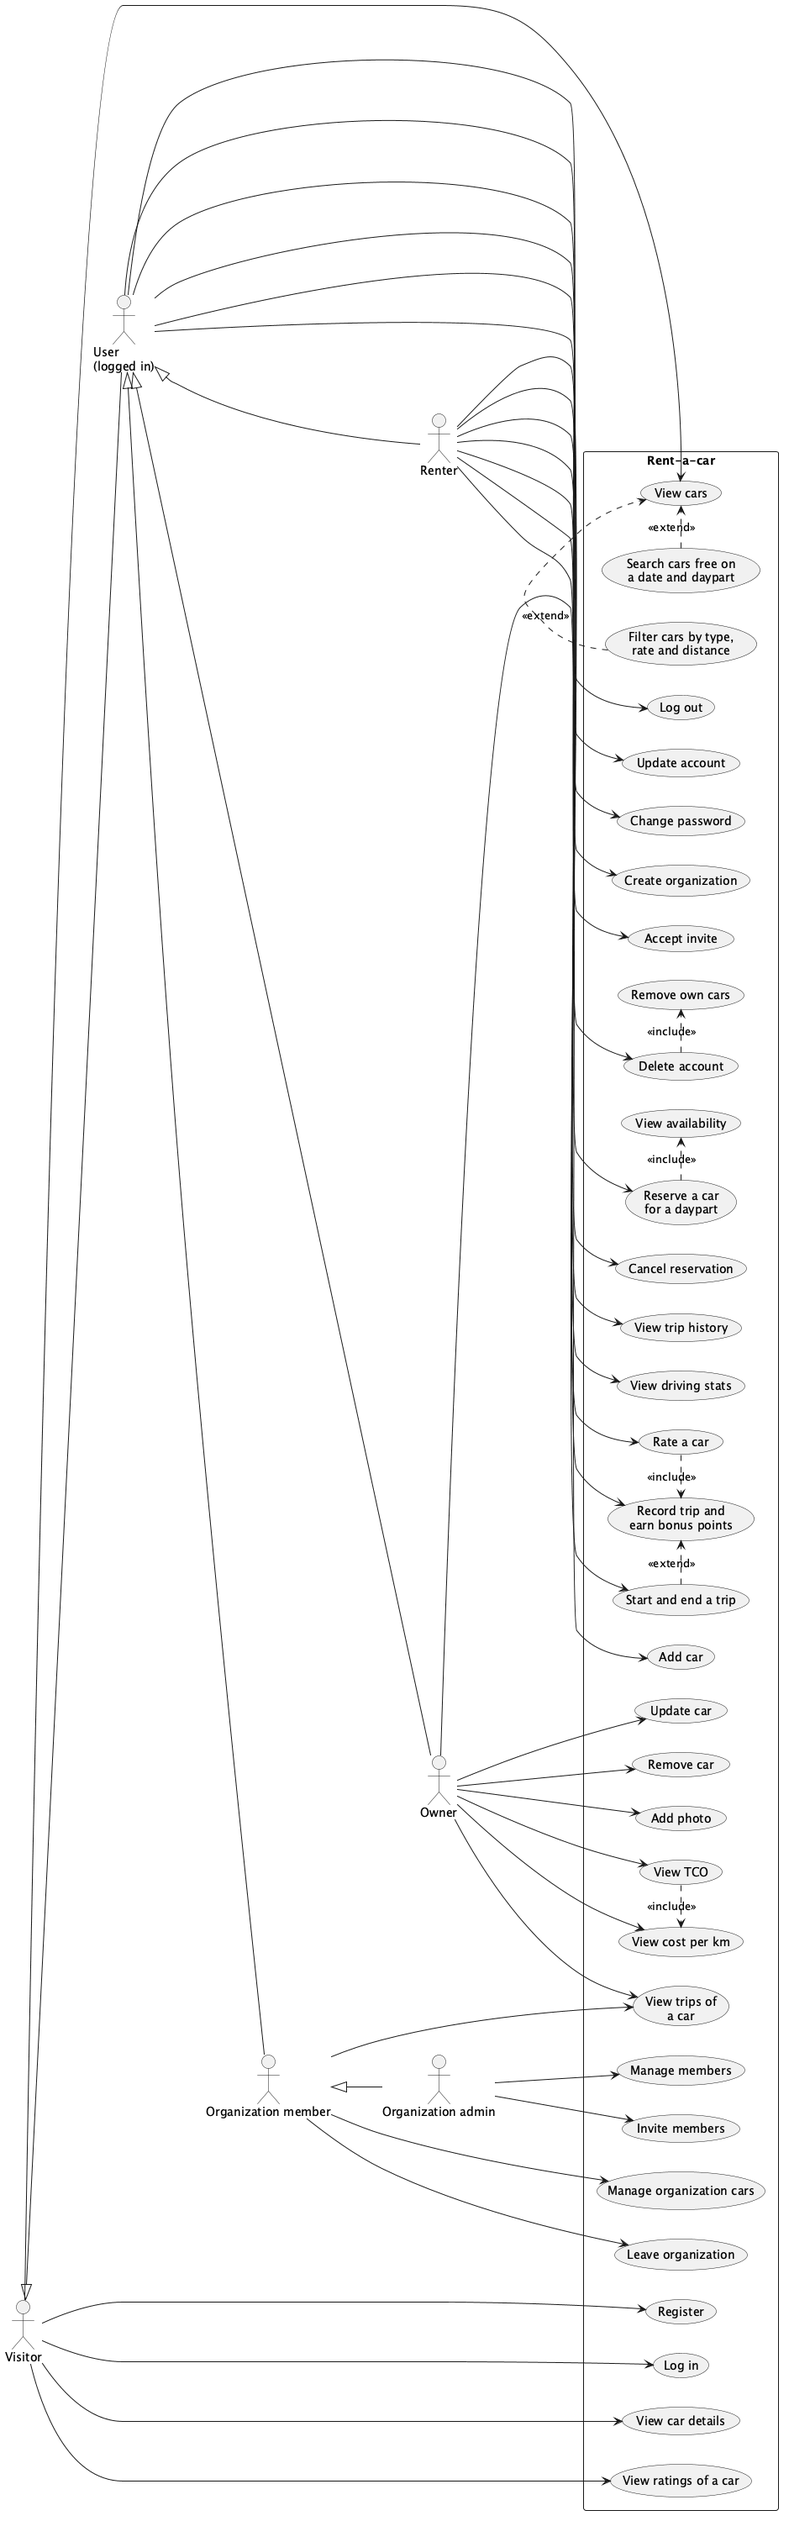
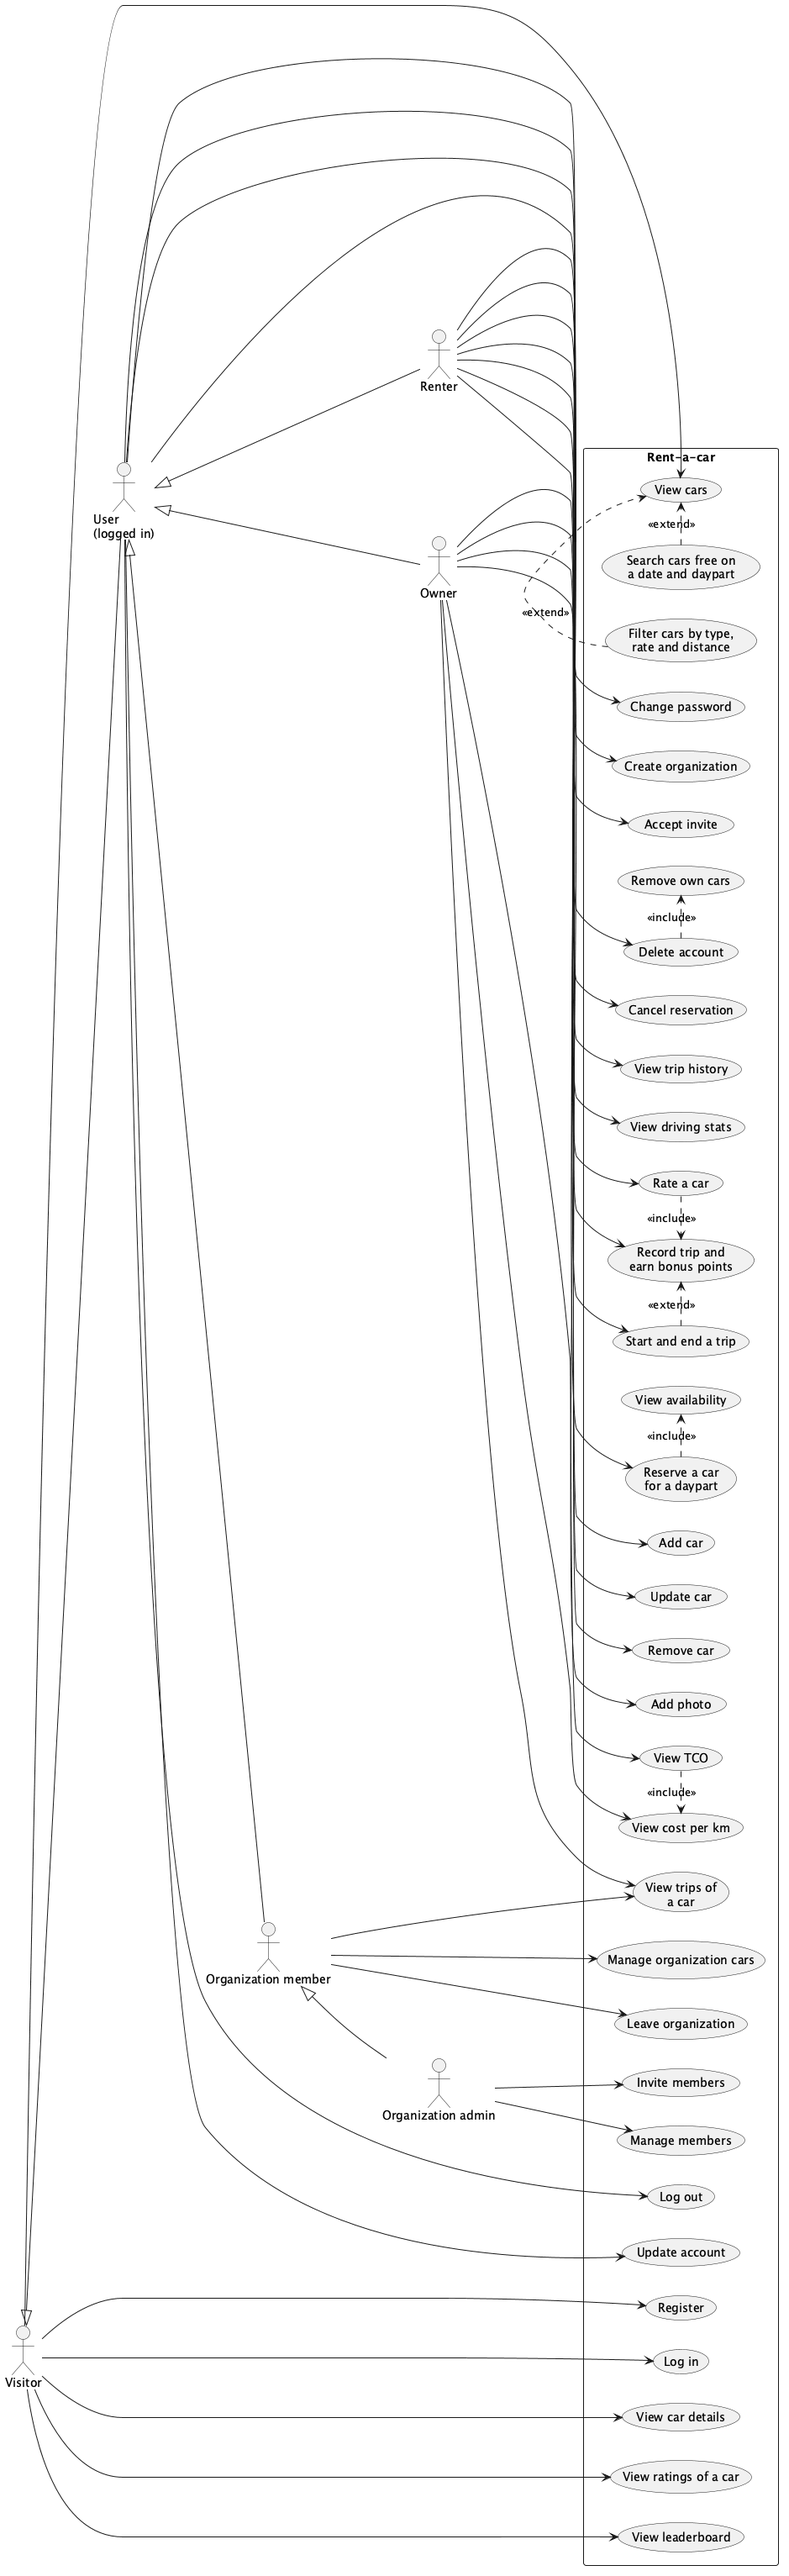
feat: show the drivers with the most bonus points (#114)
* Add GET /leaderboard with the drivers that have the most bonus points

* Test the leaderboard order, limit and privacy

* Document the leaderboard in the README, OpenAPI and the diagrams

* Cover the default limit and name the leaderboard tests after what they check

diff --git a/test/trips/LeaderboardRoutesTest.kt b/test/trips/LeaderboardRoutesTest.kt
@@ -1,0 +1,136 @@
+package com.example.trips
+
+import com.example.accounts.UserRepository
+import com.example.cars.PostgresCarRepository
+import com.example.cars.AddCarRequest
+import com.example.cars.BodyStyle
+import com.example.cars.CarType
+import com.example.cars.Location
+import com.example.cars.Transmission
+import com.example.database.TestDatabase
+import com.example.database.useTestDatabase
+import com.example.organizations.OrganizationRepository
+import com.example.reservations.Daypart
+import com.example.reservations.ReservationRepository
+import io.ktor.client.HttpClient
+import io.ktor.client.request.get
+import io.ktor.client.statement.HttpResponse
+import io.ktor.client.statement.bodyAsText
+import io.ktor.http.HttpStatusCode
+import io.ktor.server.testing.ApplicationTestBuilder
+import io.ktor.server.testing.testApplication
+import kotlinx.serialization.json.*
+import org.jetbrains.amper.ktor.module
+import java.time.LocalDate
+import kotlin.test.*
+
+class LeaderboardRoutesTest {
+    private val users = UserRepository(TestDatabase.dataSource)
+    private val trips = TripRepository(TestDatabase.dataSource)
+    private val reservations = ReservationRepository(TestDatabase.dataSource)
+    private var day = 0L
+
+    @BeforeTest
+    fun reset() {
+        OrganizationRepository(TestDatabase.dataSource).clear()
+        users.clear() // and with the users their cars, reservations and trips
+        day = 0
+    }
+
+    private fun withApp(block: suspend ApplicationTestBuilder.() -> Unit) = testApplication {
+        useTestDatabase()
+        application { module() }
+        block()
+    }
+
+    private val car by lazy {
+        val owner = users.register("Owner", "owner@example.com", "supersecret")!!
+        PostgresCarRepository(TestDatabase.dataSource).addCar(
+            AddCarRequest(CarType.BEV, "Test Motors", "LB-1", 1, 45.5, Location(52.3, 4.9), 4, BodyStyle.Sedan, 2024, 150, Transmission.Automatic, "Blue", capacity = 75.0, consumption = 16.2).toCar(owner.id),
+        ).id
+    }
+
+    // Registers a user and gives them the points through a recorded trip, like the API does.
+    private fun driver(name: String, points: Int) {
+        val user = users.register(name, "${name.lowercase()}$day@example.com", "supersecret")!!
+        if (points == 0) return
+        val reservation = reservations.reserve(car, user.id, LocalDate.of(2026, 1, 1).plusDays(day++), Daypart.MORNING)!!
+        trips.record(reservation.id, user.id, 10, 100, points)
+    }
+
+    private suspend fun HttpClient.leaderboard(query: String = ""): HttpResponse = get("/leaderboard$query")
+
+    private suspend fun HttpResponse.entries() = Json.parseToJsonElement(bodyAsText()).jsonArray.map { it.jsonObject }
+
+    @Test
+    fun TheMostPointsComeFirstAndEqualPointsAreOrderedByName() = withApp {
+        driver("Carl", 50)
+        driver("Bob", 80)
+        driver("Ann", 50)
+
+        val response = client.leaderboard()
+
+        assertEquals(HttpStatusCode.OK, response.status) // public: no token
+        assertEquals(
+            listOf("Bob" to 80, "Ann" to 50, "Carl" to 50),
+            response.entries().map { it["name"]!!.jsonPrimitive.content to it["bonusPoints"]!!.jsonPrimitive.int },
+        )
+    }
+
+    @Test
+    fun TheLimitCutsTheListAndTheTopStaysFirst() = withApp {
+        driver("Ann", 10)
+        driver("Bob", 30)
+        driver("Carl", 20)
+
+        val names = client.leaderboard("?limit=2").entries().map { it["name"]!!.jsonPrimitive.content }
+
+        assertEquals(listOf("Bob", "Carl"), names)
+    }
+
+    @Test
+    fun OnlyTheNameAndThePointsAreShown() = withApp {
+        driver("Ann", 10)
+
+        val body = client.leaderboard().bodyAsText()
+
+        assertEquals(setOf("name", "bonusPoints"), Json.parseToJsonElement(body).jsonArray.single().jsonObject.keys)
+        assertFalse(body.contains("@"))
+    }
+
+    @Test
+    fun UsersWithoutPointsAreNotListed() = withApp {
+        driver("Ann", 10)
+        driver("Zero", 0)
+
+        val names = client.leaderboard().entries().map { it["name"]!!.jsonPrimitive.content }
+
+        assertEquals(listOf("Ann"), names)
+    }
+
+    @Test
+    fun WithoutALimitTheTopTenIsShown() = withApp {
+        for (i in 1..11) driver("Driver${i.toString().padStart(2, '0')}", i)
+
+        val entries = client.leaderboard().entries()
+
+        assertEquals(DEFAULT_LEADERBOARD_LIMIT, entries.size)
+        assertEquals(11, entries.first()["bonusPoints"]!!.jsonPrimitive.int)
+        assertEquals(2, entries.last()["bonusPoints"]!!.jsonPrimitive.int)
+    }
+
+    @Test
+    fun WithoutAnyPointsTheListIsEmpty() = withApp {
+        val response = client.leaderboard()
+
+        assertEquals(HttpStatusCode.OK, response.status)
+        assertEquals("[]", response.bodyAsText())
+    }
+
+    @Test
+    fun AnInvalidLimitGivesBadRequest() = withApp {
+        for (limit in listOf("0", "101", "-1", "abc", "1.5", "")) {
+            assertEquals(HttpStatusCode.BadRequest, client.leaderboard("?limit=$limit").status, "limit=$limit")
+        }
+    }
+}

diff --git a/src/trips/TripRepository.kt b/src/trips/TripRepository.kt
@@ -14,6 +14,7 @@ import org.jetbrains.exposed.v1.core.and
 import org.jetbrains.exposed.v1.core.castTo
 import org.jetbrains.exposed.v1.core.count
 import org.jetbrains.exposed.v1.core.eq
+import org.jetbrains.exposed.v1.core.greater
 import org.jetbrains.exposed.v1.core.greaterEq
 import org.jetbrains.exposed.v1.core.intLiteral
 import org.jetbrains.exposed.v1.core.lessEq
@@ -151,5 +152,14 @@ class TripRepository(dataSource: DataSource) {
             .groupBy(Reservations.daypart)
             .map { DaypartTotals(Daypart.valueOf(it[Reservations.daypart]), it[count].toInt(), it[km]!!.toLong(), it[scoreSum]!!.toLong()) }
         calculateStats(totals, bonus)
+    }
+
+    // The most points first, equal points by name and then id so the order is stable. A user without points is not listed,
+    // which also leaves out the reserved sample fleet user. One query with the limit in the database.
+    fun leaderboard(limit: Int): List<LeaderboardEntry> = transaction(db) {
+        Users.select(Users.name, Users.bonusPoints).where { Users.bonusPoints greater 0 }
+            .orderBy(Users.bonusPoints to SortOrder.DESC, Users.name to SortOrder.ASC, Users.id to SortOrder.ASC)
+            .limit(limit)
+            .map { LeaderboardEntry(it[Users.name], it[Users.bonusPoints]) }
     }
 }

diff --git a/test/trips/LeaderboardLimitTest.kt b/test/trips/LeaderboardLimitTest.kt
@@ -1,0 +1,29 @@
+package com.example.trips
+
+import io.ktor.http.parametersOf
+import kotlin.test.*
+
+class LeaderboardLimitTest {
+    private fun limit(value: String?) = parseLeaderboardLimit(if (value == null) parametersOf() else parametersOf("limit", value))
+
+    @Test
+    fun WithoutALimitTheDefaultIsUsed() {
+        assertEquals(DEFAULT_LEADERBOARD_LIMIT, limit(null))
+    }
+
+    @Test
+    fun TheLimitStaysBetween1AndTheMaximum() {
+        assertEquals(1, limit("1"))
+        assertEquals(MAX_LEADERBOARD_LIMIT, limit(MAX_LEADERBOARD_LIMIT.toString()))
+        assertNull(limit("0"))
+        assertNull(limit((MAX_LEADERBOARD_LIMIT + 1).toString()))
+        assertNull(limit("-5"))
+    }
+
+    @Test
+    fun ALimitThatIsNotAWholeNumberIsRejected() {
+        assertNull(limit("abc"))
+        assertNull(limit("2.5"))
+        assertNull(limit(""))
+    }
+}

diff --git a/src/trips/Leaderboard.kt b/src/trips/Leaderboard.kt
@@ -1,0 +1,17 @@
+package com.example.trips
+
+import io.ktor.http.Parameters
+import kotlinx.serialization.Serializable
+
+internal const val DEFAULT_LEADERBOARD_LIMIT = 10
+internal const val MAX_LEADERBOARD_LIMIT = 100
+
+// Only the name and the points: the id and the email of a driver stay private.
+@Serializable
+data class LeaderboardEntry(val name: String, val bonusPoints: Int)
+
+// null when the limit is not a whole number from 1 to MAX_LEADERBOARD_LIMIT.
+fun parseLeaderboardLimit(query: Parameters): Int? {
+    val limit = query["limit"]?.let { it.toIntOrNull() ?: return null } ?: DEFAULT_LEADERBOARD_LIMIT
+    return limit.takeIf { it in 1..MAX_LEADERBOARD_LIMIT }
+}

diff --git a/src/trips/TripRoutes.kt b/src/trips/TripRoutes.kt
@@ -21,6 +21,11 @@ import java.time.temporal.ChronoUnit
 
 fun Application.configureTrips(reservations: ReservationRepository, trips: TripRepository, cars: CarRepository, organizations: OrganizationRepository, clock: Clock = Clock.system(ZONE)) {
     routing {
+        get("/leaderboard") {
+            val limit = parseLeaderboardLimit(call.request.queryParameters)
+            if (limit == null) call.respond(HttpStatusCode.BadRequest) else call.respond(trips.leaderboard(limit))
+        }
+
         authenticate {
             get("/trips") {
                 val filter = parseTripFilter(call.request.queryParameters).getOrElse {

diff --git a/README.md b/README.md
@@ -83,6 +83,7 @@ Swagger UI is only served in Ktor's development mode, which is on by default. St
 | `GET`    | `/trips`                  | Your trip history              | `200`   | `400`, `401`                      |
 | `GET`    | `/cars/{id}/trips`        | The trips of a car you manage  | `200`   | `400`, `401`, `403`, `404`        |
 | `GET`    | `/accounts/{id}/stats`    | Your driving totals            | `200`   | `400`, `401`, `403`, `404`        |
+| `GET`    | `/leaderboard`            | The drivers with most points   | `200`   | `400`                             |
 | `POST`   | `/reservations/{id}/rating` | Rate the car after your trip | `201`   | `400`, `401`, `403`, `404`, `409` |
 | `GET`    | `/cars/{id}/ratings`      | The ratings and average of a car | `200` | `400`, `404`                      |
 | `POST`   | `/accounts`               | Register an account            | `201`   | `400`, `409`                      |
@@ -105,6 +106,8 @@ The app can also time the trip: `POST /reservations/{id}/trip/start` (on the day
 `GET /trips` lists your own trips, newest first, with the car, date, daypart, `distanceKm` and `score`. `from` and `to` (ISO dates, inclusive) filter on the date of the reservation and `limit` (1-100, default 20) and `offset` page through the list; an invalid value gives `400`. `GET /cars/{id}/trips` does the same for everyone's trips with a car, for the owner of a private car or a member of the organization of an organization car (`403` for others).
 
 `GET /accounts/{id}/stats` shows your driving totals: `tripCount`, `totalKm`, `averageScore` (one decimal), `bestDaypart` (the daypart with the highest average score, the earliest on a tie) and `bonusPoints`. `averageScore` and `bestDaypart` are `null` without trips. Only finished trips count, and it only works on your own account (`403` for someone else's, `404` for an unknown one).
+
+`GET /leaderboard` is public and lists the drivers with the most bonus points, each with only a `name` and `bonusPoints` (never the email). `limit` (1-100, default 10) cuts the list and anything else gives `400`. Equal points are ordered by name and then by account, and users without points are not listed.
 
 After a finished trip the renter can rate the car once with `POST /reservations/{id}/rating`: `stars` (1 to 5) and an optional `comment` (up to 500 characters, trimmed). `409` without a finished trip (a started trip that has not ended does not count) or when the reservation was already rated. `GET /cars/{id}/ratings` lists the ratings of a car, newest first, with `averageRating` (one decimal, `null` without ratings) and `ratingCount`; a rating shows no data of the renter. `GET /cars` and `GET /cars/{id}` also show the car's `averageRating`. Deleting a car or an account removes the ratings that belong to it.
 
